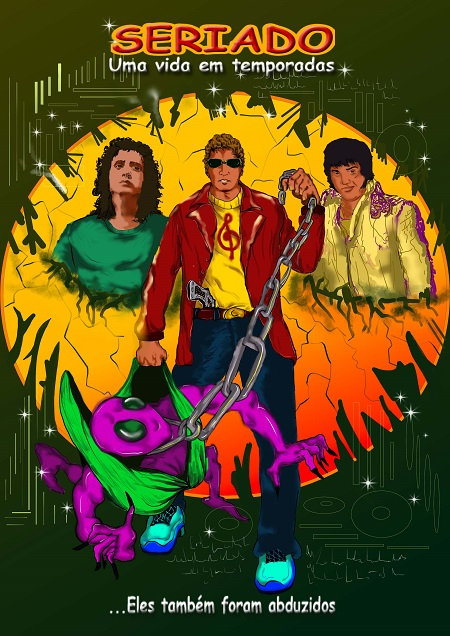
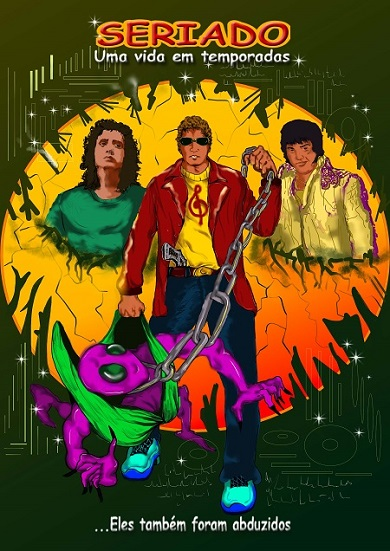
atualizei III

diff --git a/arte.css b/arte.css
@@ -19,13 +19,27 @@ body{
     height: 500px;
 }
 #apresenta2{
+   
+   
    padding: 10px;
     border:  1px solid white;
     border-radius: 10px;
     margin: auto;
     margin-top: 10px;
     width: 95vw;
-    height:1980px;
+    height:1800px;
+}
+#im{
+    display:inline-block;
+    align-content: center;
+    margin: auto;
+   margin-top: 10px;
+   margin-left: 33px;
+}
+#im1{
+    margin: auto; 
+  margin-top: 10px;
+  margin-left: 33px;
 }
 nav{
     background-color: rgba(210, 105, 30, 0.37);
@@ -72,7 +86,7 @@ iframe{
     display: flex;
     justify-content: center;
     margin: auto;
-    width: 450px;
+    width: 410px;
     height: 450px;
     padding: 10px;
 }
